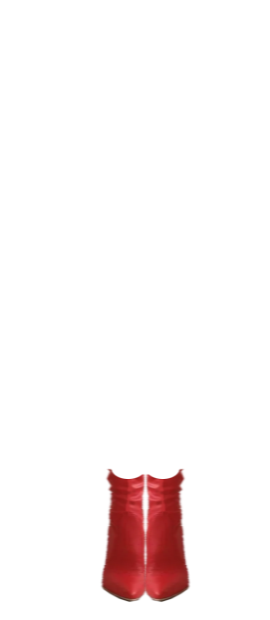
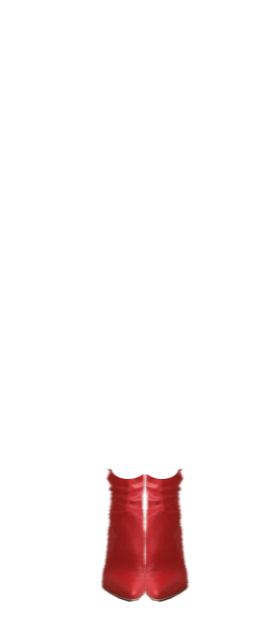
Quick Fix: TallerBoots/Combo Boots

diff --git a/BondageClub/Assets/Female3DCG/Female3DCG.js b/BondageClub/Assets/Female3DCG/Female3DCG.js
@@ -8701,7 +8701,7 @@ var AssetFemale3DCG = [
 							"SocksLeft",
 							"SuitLower",
 						],
-						Masks: [[75, 855, 350, 200]],
+						Masks: [[75, 865, 350, 200]],
 					},
 				],
 			},
